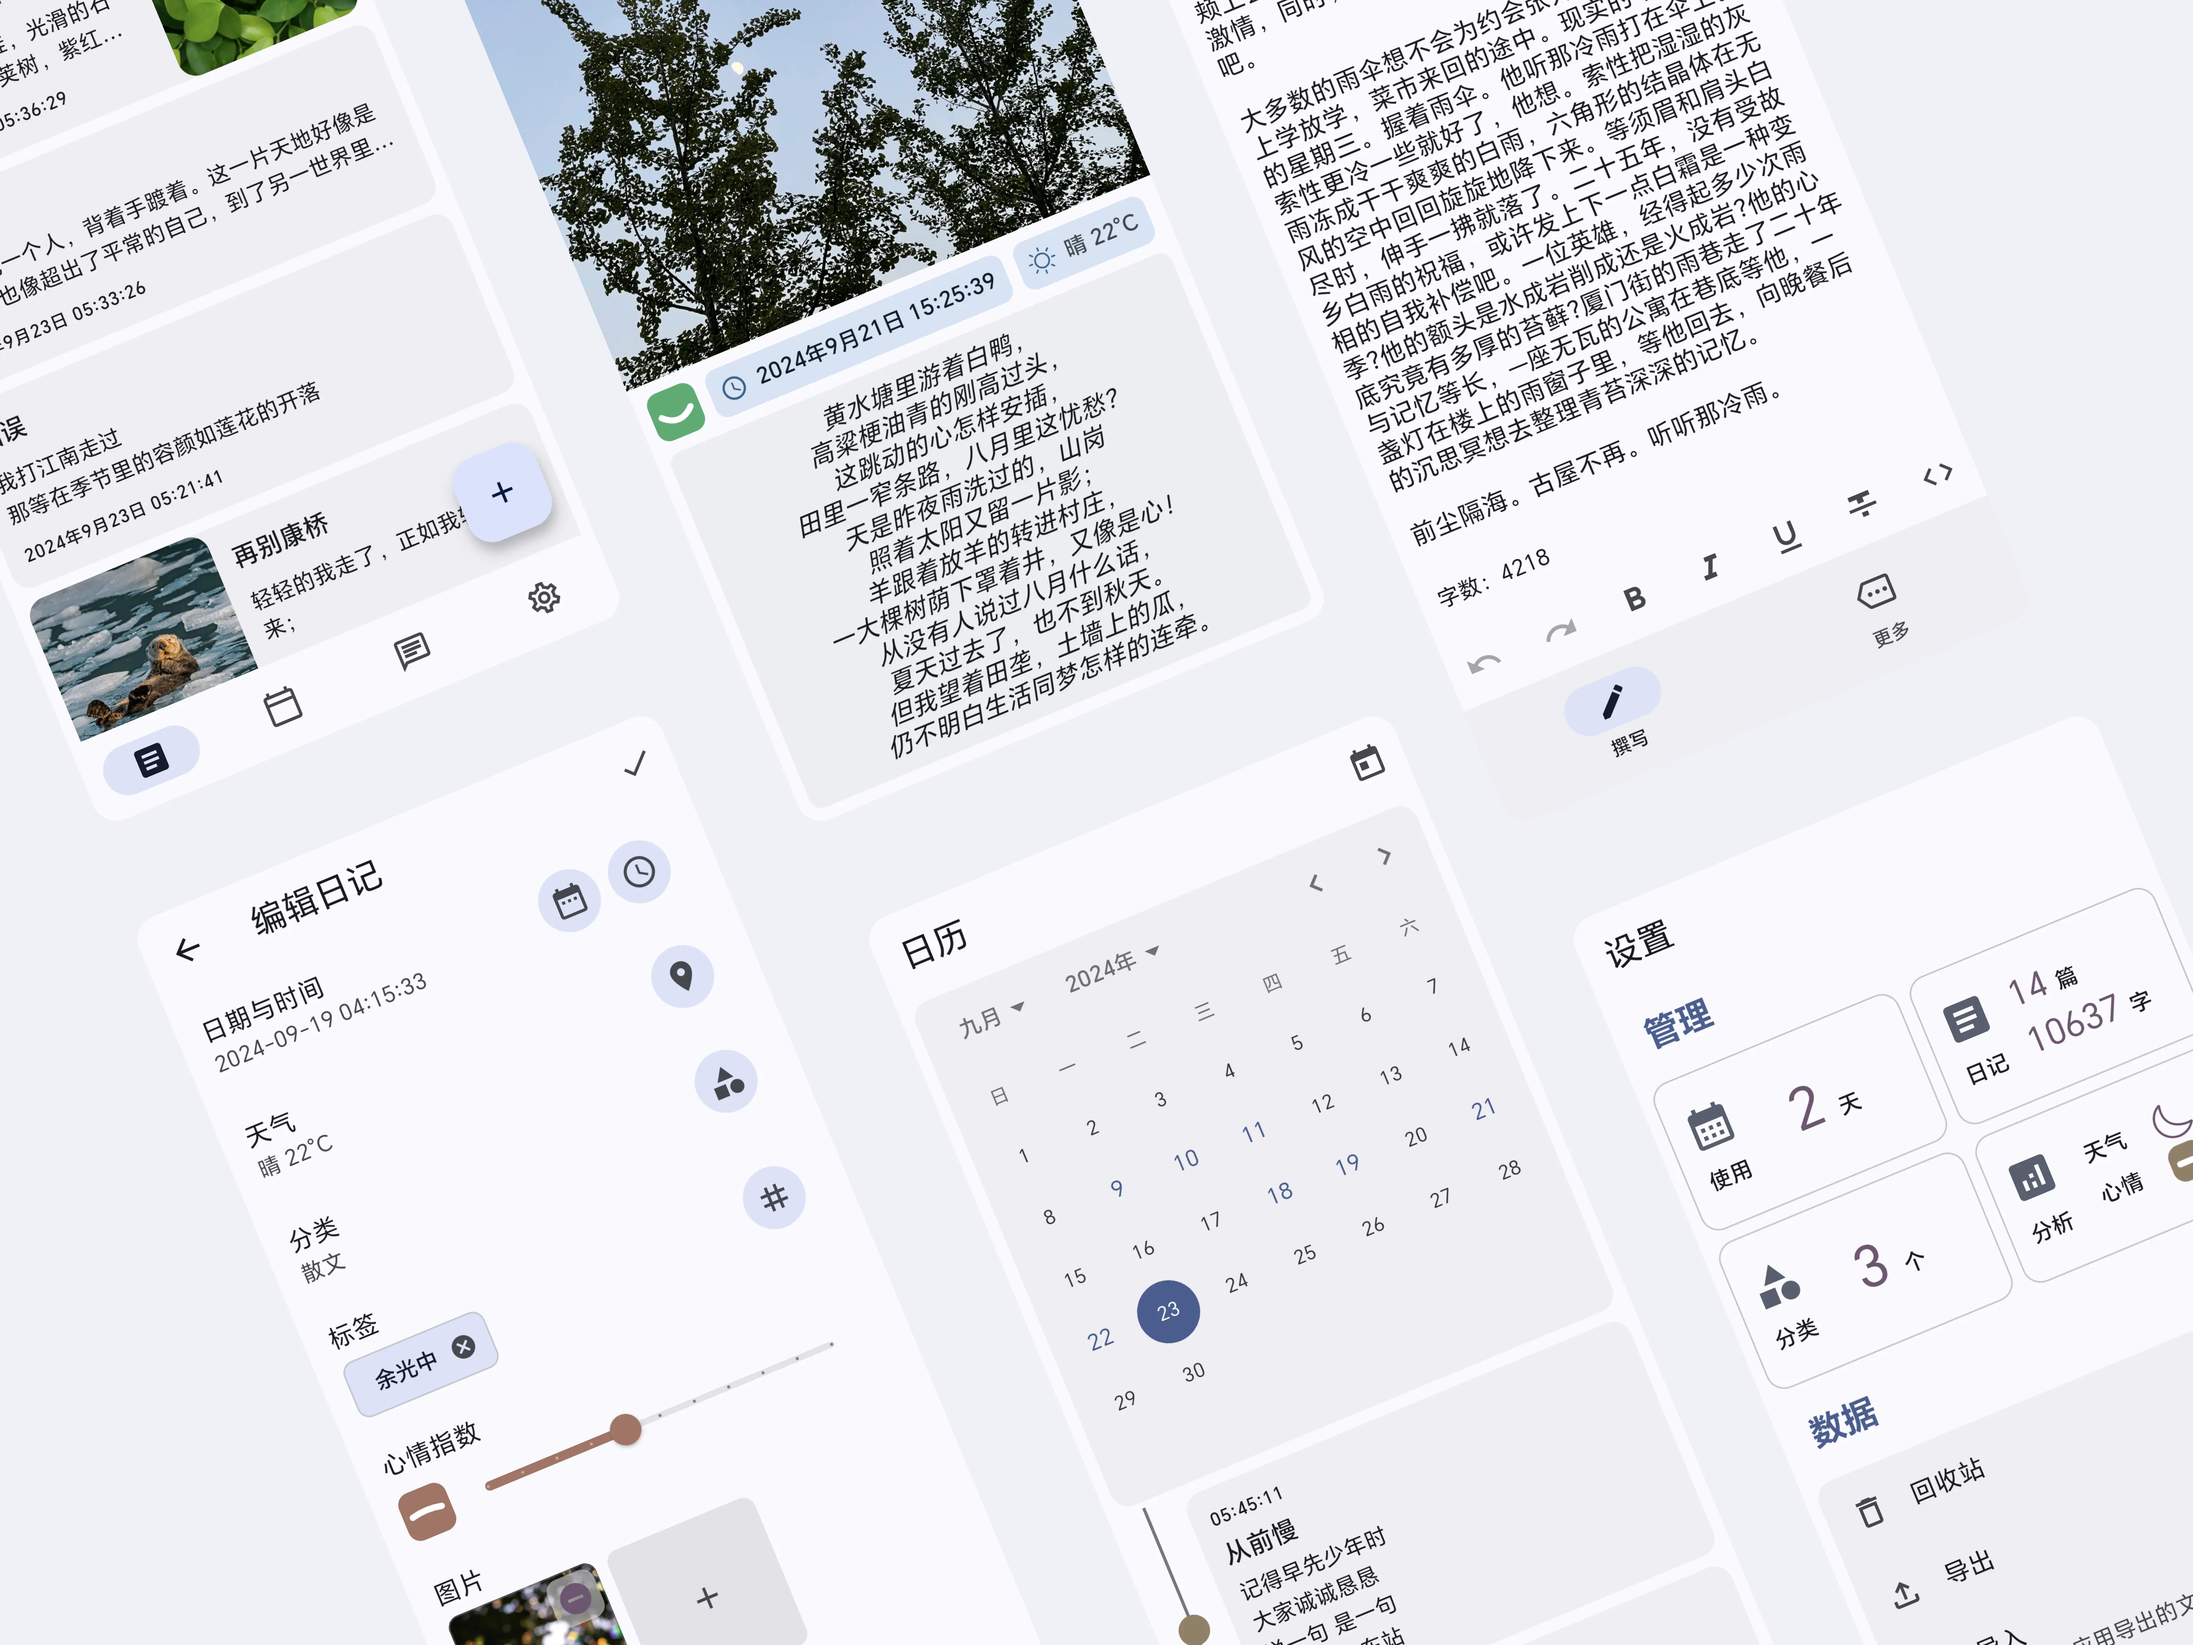
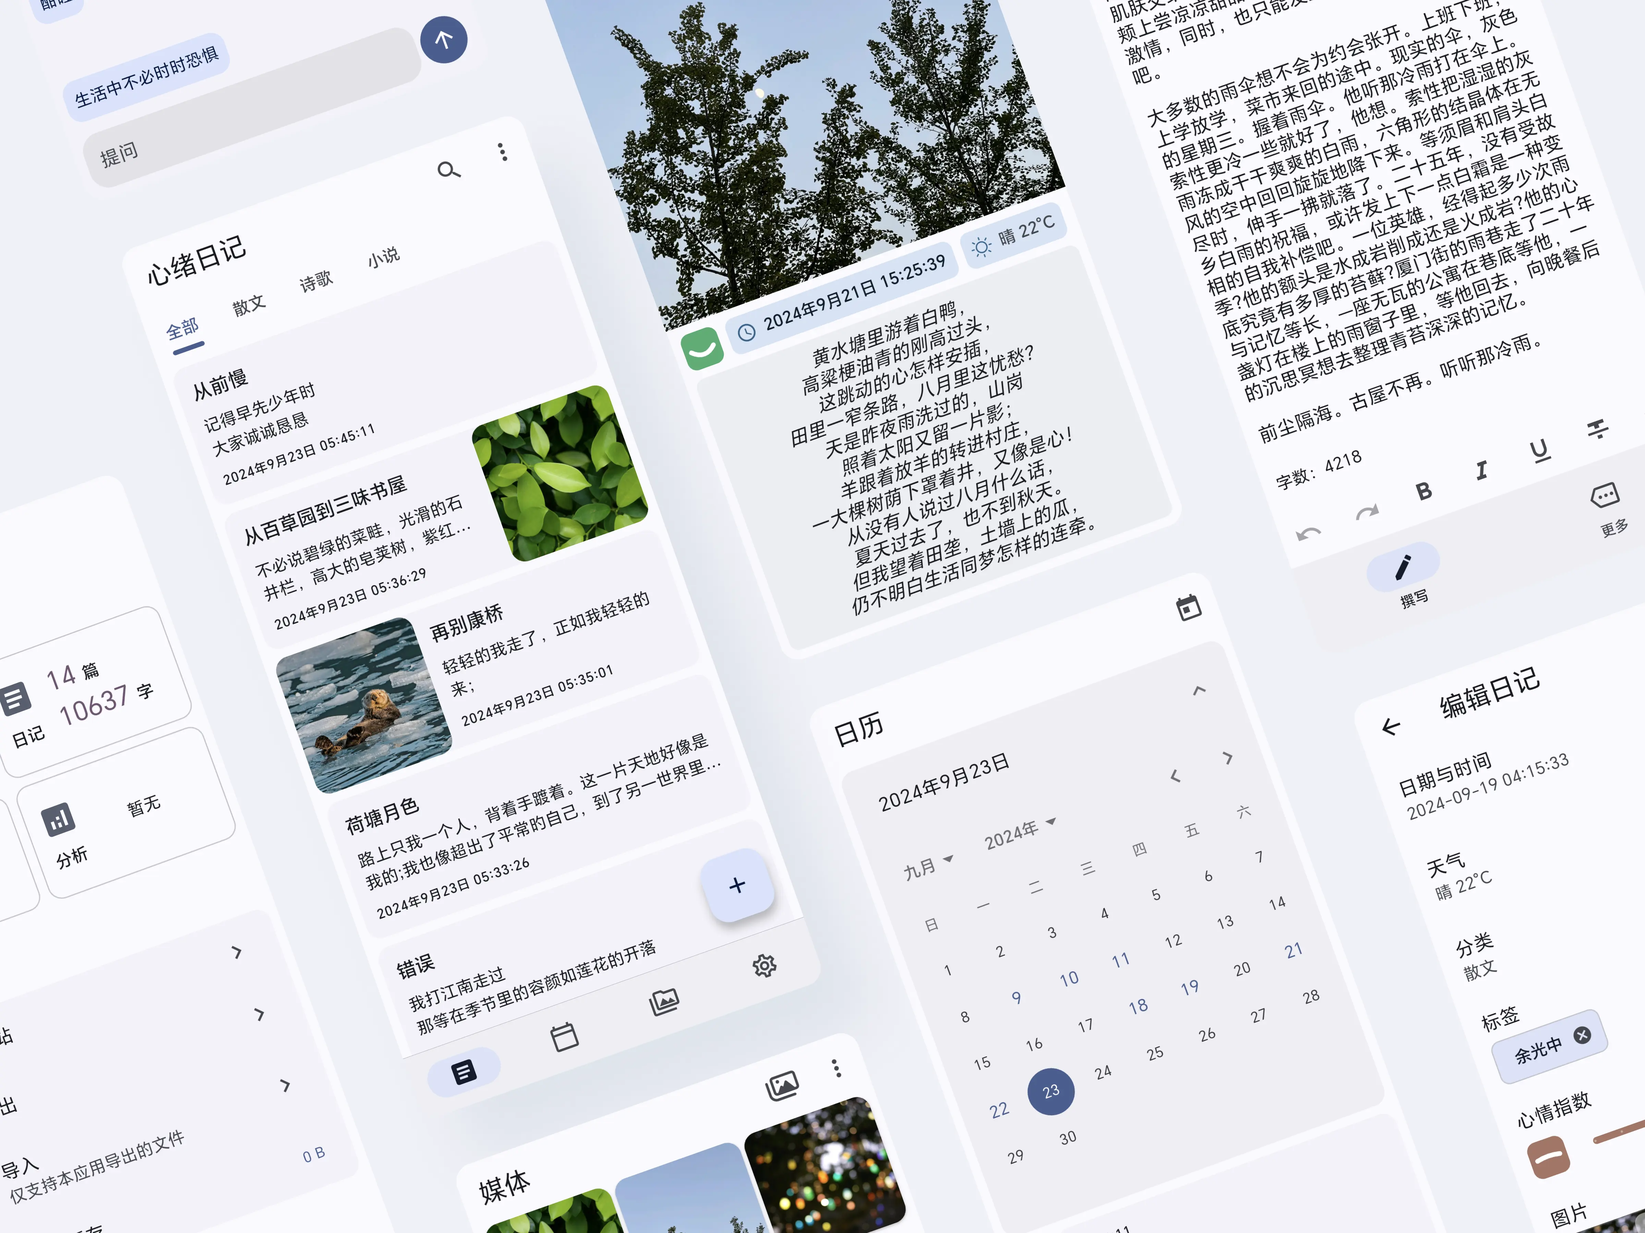
docs(): update README

diff --git a/README.en.md b/README.en.md
@@ -17,11 +17,11 @@
 - **Data security**：🔒 Keep your diary safe with a password.
 - **Export and share**：🧾 Support all data import/export, as well as single diary sharing.
 - **Cloud synchronization**：☁ Support for synchronizing diaries across multiple devices (coming soon).
-- **AI assistant**：🤖 Support ability to access large model provides AI (currently support: [Tencent Hunyuan](https://hunyuan.tencent.com/)).
+- **Natural Language Processing (NLP)**：🤖 Let your diary more understand you.
 
 (Note: Cross-platform capabilities are provided by Flutter, platforms with * may require more testing)
 
-## 🔧 Technology stack
+## 🔧 Main Technology stack
 
 - [Flutter](https://github.com/flutter/flutter)
 - [Isar](https://github.com/isar/isar)
@@ -47,10 +47,6 @@ Some capabilities need to apply for third-party SDKS, and the following service 
 
 - [QWeather](https://dev.qweather.com/docs/api/)
 
-#### AI large model
-
-- [Tencent Hunyuan](https://cloud.tencent.com/product/hunyuan)
-
 ### Direct mounting
 
 Use it by downloading the compiled installation package in Release, or manually compiling it if you don't have the platform you need.
@@ -59,7 +55,7 @@ Use it by downloading the compiled installation package in Release, or manually 
 
 #### Environmental requirement
 
-- Flutter SDK (>= 3.26.0-0.1.pre)
+- Flutter SDK (>= 3.26.0-0.1.pre, Because I use features that have not been incorporated into the stable version, I can only use the beta version and will migrate as soon as the stable version is updated)
 - Dart (>= 3.6.0)
 - Compatible ides (e.g. Android Studio, Visual Studio Code)
 
@@ -92,9 +88,23 @@ Use it by downloading the compiled installation package in Release, or manually 
    - iOS: `flutter build ios`
    - Windows: `flutter build windows`
 
-## 📝 Instructions for use
+## 📝 More description
 
-Once the installation is complete, you can start creating diary entries by clicking the "New Diary" button. Use a rich text editor to format your content, add multimedia attachments, and organize through tags.
+### Natural Language Processing (NLP)
+
+Today, more and more industry products are beginning to incorporate AI technology, which undoubtedly greatly improves our experience. However, for diary applications, it is not acceptable to hand over the data to a large model because it is not certain that the data will be used for training. Therefore, a better approach is to adopt a local model. Although local models may not be as powerful as large models due to size limitations, they can still provide necessary help to a certain extent.
+
+So far, I have integrated the following tasks:
+
+#### SQuAD task based on Bert pre-trained model
+
+I used MobileBert for the SQuAD task, which is a simple machine reading comprehension task. You can ask it questions and it will return the answers you need. The model file is in the '.tflite 'format required by TensorFlow Lite, and the size of the model is about 50MB after quantization.
+
+Thanks to the following open source projects:
+
+- [Chinese MobileBERT](https://github.com/ymcui/Chinese-MobileBERT)
+- [Mobilebert](https://github.com/google-research/google-research/tree/master/mobilebert)
+- [ChineseSquad](https://github.com/junzeng-pluto/ChineseSquad)
 
 ## 🤝 Contribution guide
 

diff --git a/README.md b/README.md
@@ -17,11 +17,11 @@
 - **数据安全**：🔒 通过密码来保障你的日记安全。
 - **导出和分享**：🧾 支持所有数据的导入/导出，以及单篇日记的分享。
 - **云同步**：☁ 支持在多个设备间同步日记（即将支持）。
-- **AI 助手**：🤖 支持接入大模型提供 AI 能力（目前支持：[腾讯混元](https://hunyuan.tencent.com/)）。
+- **自然语言处理（NLP）**：🤖 让你的日记更懂你。
 
 （注：跨平台能力由 Flutter 提供，带 * 号的平台可能需要更多测试）
 
-## 🔧 技术栈
+## 🔧 主要技术栈
 
 - [Flutter](https://github.com/flutter/flutter)
 - [Isar](https://github.com/isar/isar)
@@ -47,10 +47,6 @@
 
 - [和风天气](https://dev.qweather.com/docs/api/)
 
-#### AI 大模型
-
-- [腾讯混元大模型](https://cloud.tencent.com/product/hunyuan)
-
 ### 直接安装
 
 通过下载 Release 中已编译好的安装包来使用，如果没有你所需要的平台，请使用手动编译。
@@ -59,7 +55,7 @@
 
 #### 环境要求
 
-- Flutter SDK (>= 3.26.0-0.1.pre)
+- Flutter SDK (>= 3.26.0-0.1.pre，因为使用了尚未合并到稳定版的功能，我只能使用测试版，等稳定版更新后会尽快迁移)
 - Dart (>= 3.6.0)
 - 兼容的 IDE（如 Android Studio、Visual Studio Code）
 
@@ -92,9 +88,23 @@
     - iOS: `flutter build ios`
     - Windows: `flutter build windows`
 
-## 📝 使用说明
+## 📝 更多说明
 
-安装完成后，你可以通过点击“新建日记”按钮开始创建日记条目。使用富文本编辑器来格式化你的内容，添加多媒体附件，并通过标签进行组织。
+### 自然语言处理（NLP）
+
+如今，越来越多的行业产品开始融入 AI 技术，这无疑极大地提升了我们的使用体验。然而，对于日记应用来说，将数据交给大型模型处理并不可接受，因为无法确定这些数据是否会被用于训练。因此，更好的方法是采用本地模型。虽然由于体积限制，本地模型的能力可能不如大型模型强大，但在一定程度上仍能为我们提供必要的帮助。
+
+目前，我已经集成了以下任务：
+
+#### 基于 Bert 预训练模型的 SQuAD 任务
+
+我采用了 MobileBert 来处理 SQuAD 任务，这是一个简单的机器阅读理解任务。你可以向它提出问题，它会返回你需要的答案。模型文件采用 TensorFlow Lite 所需的 `.tflite` 格式，经过量化后模型大小约为 50MB。
+
+感谢以下开源项目：
+
+- [Chinese MobileBERT](https://github.com/ymcui/Chinese-MobileBERT)
+- [Mobilebert](https://github.com/google-research/google-research/tree/master/mobilebert)
+- [ChineseSquad](https://github.com/junzeng-pluto/ChineseSquad)
 
 ## 🤝 贡献指南
 
